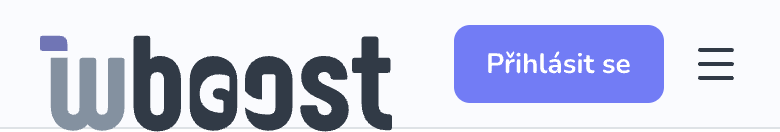
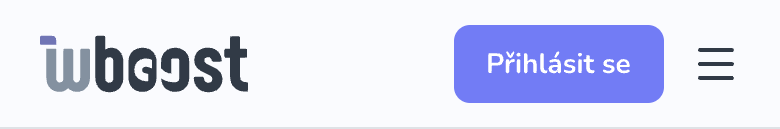
design(landing): drop the warm tint; fix the wordmark rendering 50% oversize
Two fixes from Jan's review.

The cream #f4f1ea on Příběh is gone. The design brief permits it, and it
did stop the page feeling clinical, but on a page whose colour story is
one accent plus ink/paper it reads as a fourth colour with no reason —
the first question it provokes is "why yellow?". A colour that needs
explaining is the wrong colour. Now a neutral recessed grey #f1f3f7, a
tone rather than a hue, with everything inside remapped off the warm
greys. Tokens paper-warm -> paper-alt, plus border-alt for its hairlines.

Inner shadows were tried instead and rejected: Pencil's inner shadow has
no usable spread so it vignettes the side edges of a full-bleed band, and
a section shadow breaks the page's own one-shadow-popovers-only rule.

The wordmark was rendering at 176x48 in every lockup instead of its
frame size. Jan saw it as "the logo is too close to the navbar border";
the actual cause is that Copy's descendants map resizing the seven paths
silently did not apply, so the glyphs overflowed their frame downward.
Fixed on all eight lockups by setting each path's size explicitly. Noted
for the build: size the inlined SVG by its own width + height:auto, never
by a wrapper the paths do not inherit from.

Claude-Session: https://claude.ai/code/session_01Kcf3CjFPGkA9vXuVmKbxZg

diff --git a/designs/wboost-landing-notes.md b/designs/wboost-landing-notes.md
@@ -81,9 +81,9 @@ Mobile: H1 40 / section titles 34 / body 16–17.
 - One idea borrowed from *Editorial Landscape Stack*: the three typographic voices above.
 
 Document variables (all defined in the `.pen`): `ink #313a46`, `ink-deep #20262f` (footer only),
-`paper #fafbfe`, `paper-warm #f4f1ea`, `primary #727cf5`, `primary-hover #5b66e0`,
+`paper #fafbfe`, `paper-alt #f1f3f7`, `primary #727cf5`, `primary-hover #5b66e0`,
 `primary-tint #eef0fe`, `slate #8491a0`, `logo-accent #7075b5`, `text-head #313a46`,
-`text-body #6c757d`, `border #dee2e6`, `border-ink #8491a03d`, `success #0acf97`,
+`text-body #6c757d`, `border #dee2e6`, `border-alt #dde2e9`, `border-ink #8491a03d`, `success #0acf97`,
 `danger #fa5c7c`, `demo-green #1e4a3b`, `demo-brick #9c3a24`, plus the three font names.
 
 ---
@@ -97,7 +97,7 @@ Document variables (all defined in the `.pen`): `ink #313a46`, `ink-deep #20262f
   tiles; one hairline per surface (`#dee2e6` on paper, `#8491a03d` on ink). One soft
   ambient shadow, used only on floating popovers, the hero artwork and the toast.
 - **Rhythm**: paper ×5 → **ink** (Showcase) → paper (Moduly) → **ink** (AI) → paper
-  (Pro koho) → **ink** (Reference) → **warm paper `#f4f1ea`** (Příběh) → **ink** (Cena) →
+  (Pro koho) → **ink** (Reference) → **recessed grey `#f1f3f7`** (Příběh) → **ink** (Cena) →
   paper (FAQ) → **ink** (Final CTA) → **deeper ink `#20262f`** (Footer).
   **No two dark sections are ever adjacent** — a hard rule, not a preference. Two bands of
   the same ink meeting have no visible boundary at all: the break disappears and they read as
@@ -108,8 +108,8 @@ Document variables (all defined in the `.pen`): `ink #313a46`, `ink-deep #20262f
   **The order must be valid in BOTH states**, because *Reference* ships hidden. Verified with
   it disabled: the sequence becomes … Pro koho (paper) → **Příběh (warm)** → Cena (ink) …, so
   no dark pair appears — but it does put the page's two lightest surfaces next to each other
-  (`#fafbfe` → `#f4f1ea`), which is the softest seam on the page. *Příběh* therefore carries a
-  permanent `#e3ddd0` top hairline: irrelevant when Reference is shown (ink above it already
+  (`#fafbfe` → `#f1f3f7`), which is the softest seam on the page. *Příběh* therefore carries a
+  permanent `#dde2e9` top hairline: irrelevant when Reference is shown (ink above it already
   does the work), and the thing that keeps the boundary legible when it is not.
 
   Two seams are marked rather than relying on contrast alone:
@@ -117,7 +117,7 @@ Document variables (all defined in the `.pen`): `ink #313a46`, `ink-deep #20262f
   | Seam | Treatment |
   |---|---|
   | Final CTA → Footer | tonal step `#313a46` → `#20262f` **and** `#ffffff1a` top hairline |
-  | Pro koho → Příběh (whenever Reference is hidden) | `#e3ddd0` top hairline on *Příběh* |
+  | Pro koho → Příběh (whenever Reference is hidden) | `#dde2e9` top hairline on *Příběh* |
 
   Every other boundary is a paper↔ink contrast change and needs nothing. The light opening
   run (Problém → Jak to funguje) is deliberately left unmarked: each section leads with an
@@ -191,7 +191,7 @@ brand colour, never stock photography (§6).
   command block and the guide link on the right.
 - **Pro koho** — three cards, the developer card inverted to ink. Titles and outcome
   sentences are height-locked so the three "CO DOSTANETE" lists align.
-- **Příběh (warm paper)** — copy left, founder cards + timeline right, then the pull-quote
+- **Příběh (recessed grey)** — copy left, founder cards right, then the pull-quote
   set at 38 px in the display face with the opening `„` optically hung into the left
   margin, then three facts under 2 px rules.
 - **Cena (ink)** — no table, no tiers. Big statement left, three checked facts and the CTA
@@ -301,6 +301,32 @@ Seven changes, all requested by Jan after seeing the first build:
    left the **Produkt** heading became noise and went too. Consequence for §11: `/api/docs` is
    no longer linked from anywhere on the page — `/ai` still is, from the AI section's
    *Průvodce připojením →*.
+
+## 6c. Second revision — 2026-09-03, later the same evening
+
+8. **The warm cream on *Příběh* is gone.** §6 of the design brief explicitly permits "one
+   optional warm tint … the story section on `#f4f1ea`", and it did stop the page feeling
+   clinical — but on a page whose entire colour story is *one* accent plus an ink/paper
+   system, a cream surface reads as a fourth colour with no reason, and the first question it
+   provokes is "why is this yellow?". A colour that needs explaining is the wrong colour.
+   Replaced with a **neutral recessed grey `#f1f3f7`** — a tone, not a hue — and everything
+   inside the section was remapped off the warm greys (`#e4dfd4` photo placeholders,
+   `#6f6a5e` captions, `#d8d1c1` rules) onto neutral equivalents. Tokens: `paper-warm` →
+   **`paper-alt #f1f3f7`**, plus a new **`border-alt #dde2e9`** for its hairlines.
+
+   Inner shadows on the section were tried as an alternative and rejected: Pencil's inner
+   shadow has no usable spread, so it vignettes the left and right edges of a full-bleed
+   band, and a section shadow breaks the page's own rule of **one shadow, floating popovers
+   only**. A flat tone plus a hairline is both cleaner and in-system.
+
+9. **The wordmark was rendering 50 % too large everywhere.** Symptom: in the nav the logo
+   nearly touched the bottom border. Cause: every lockup is a `Copy` of the component with a
+   `descendants` map resizing the seven paths, and **that override silently did not apply** —
+   the paths kept the component's native 176 × 48 while their frame was 118 × 32, so the
+   glyphs overflowed the frame downward. Fixed by setting each path's `width`/`height`
+   explicitly after the copy, on all eight lockups (two navs, two footers, and the same pair
+   on both legal artboards). Worth knowing when coding: **size the inlined SVG by its own
+   `width` + `height:auto`**, never by a wrapper the paths do not inherit from.
 
 ## 7. Motion hints (annotated, not animated)
 

diff --git a/docs/marketing/landing-page-implementation-prompt.md b/docs/marketing/landing-page-implementation-prompt.md
@@ -209,11 +209,11 @@ preprocessor, no utility soup.
 ```css
 :root {
   --lp-ink:#313a46; --lp-ink-deep:#20262f; --lp-ink-soft:#3a4453;
-  --lp-paper:#fafbfe; --lp-paper-warm:#f4f1ea; --lp-white:#fff;
+  --lp-paper:#fafbfe; --lp-paper-alt:#f1f3f7; --lp-white:#fff;
   --lp-primary:#727cf5; --lp-primary-hover:#5b66e0; --lp-primary-tint:#eef0fe;
   --lp-slate:#8491a0; --lp-logo-accent:#7075b5;
   --lp-text-head:#313a46; --lp-text-body:#6c757d;
-  --lp-border:#dee2e6; --lp-border-ink:#8491a03d;
+  --lp-border:#dee2e6; --lp-border-alt:#dde2e9; --lp-border-ink:#8491a03d;
   --lp-success:#0acf97; --lp-danger:#fa5c7c;
   --lp-demo-green:#1e4a3b; --lp-demo-brick:#9c3a24;
   --lp-font-display:"Instrument Serif",Georgia,serif;
@@ -275,7 +275,7 @@ proof strip, problém, jak to funguje, showcase, moduly (`#funkce`), AI asistent
 pro koho (`#pro-koho`), příběh (`#pribeh`), cena (`#cena`), FAQ, final CTA, footer.
 
 **Section surfaces — one hard rule.** In order: paper ×5 → **ink** (Showcase) → paper
-(Moduly) → **ink** (AI) → paper (Pro koho) → **ink** (Reference) → **warm paper** (Příběh) →
+(Moduly) → **ink** (AI) → paper (Pro koho) → **ink** (Reference) → **recessed grey `#f1f3f7`** (Příběh) →
 **ink** (Cena) → paper (FAQ) → **ink** (Final CTA) → **deeper ink `#20262f`** (Footer).
 
 **Never let two dark sections touch.** Two bands of the same ink meeting produce no boundary
@@ -286,8 +286,8 @@ a tonal step (`#313a46` → `#20262f`) **and** `border-top: 1px solid #ffffff1a`
 
 **And check the sequence in BOTH states, because Reference ships hidden (§4.1b).** With it
 removed the order becomes … Pro koho (paper) → Příběh (warm) → Cena (ink) …: no dark pair,
-but it does put the two lightest surfaces (`#fafbfe` → `#f4f1ea`) against each other. That is
-why **Příběh carries a permanent `border-top: 1px solid #e3ddd0`** — invisible when Reference
+but it does put the two lightest surfaces (`#fafbfe` → `#f1f3f7`) against each other. That is
+why **Příběh carries a permanent `border-top: 1px solid #dde2e9`** — invisible when Reference
 is shown, load-bearing when it is not. Do not "clean it up" as a redundant rule.
 
 Two seams are marked; every other boundary is a paper↔ink contrast change and needs nothing:
@@ -295,7 +295,7 @@ Two seams are marked; every other boundary is a paper↔ink contrast change and 
 | Seam | Treatment |
 |---|---|
 | Final CTA → Footer | tonal step + `border-top: 1px solid #ffffff1a` |
-| Pro koho → Příběh (whenever Reference is hidden) | `border-top: 1px solid #e3ddd0` on Příběh |
+| Pro koho → Příběh (whenever Reference is hidden) | `border-top: 1px solid #dde2e9` on Příběh |
 
 The light opening run (Problém → Jak to funguje) is deliberately unmarked — each section
 leads with an eyebrow and a large serif title and the content is dense enough to chunk on its
